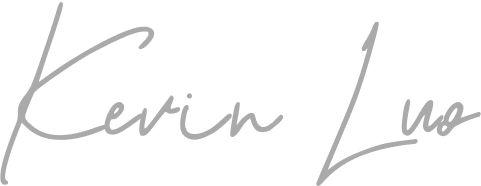
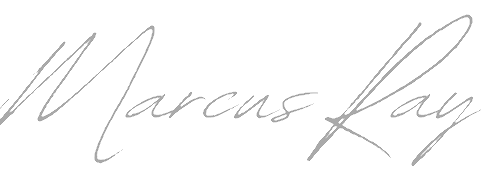
add copy
- apply minor style updates

diff --git a/src/constants/data.js b/src/constants/data.js
@@ -1,81 +1,85 @@
-import images from './images';
+import images from "./images";
 
 const wines = [
   {
-    title: 'Chapel Hill Shiraz',
-    price: '$56',
-    tags: 'AU | Bottle',
+    title: "Chapel Hill Shiraz",
+    price: "$56",
+    tags: "AU | Bottle",
   },
   {
-    title: 'Catena Malbee',
-    price: '$59',
-    tags: 'AU | Bottle',
+    title: "Catena Malbee",
+    price: "$59",
+    tags: "AU | Bottle",
   },
   {
-    title: 'La Vieillw Rose',
-    price: '$44',
-    tags: 'FR | 750 ml',
+    title: "La Vieillw Rose",
+    price: "$44",
+    tags: "FR | 750 ml",
   },
   {
-    title: 'Rhino Pale Ale',
-    price: '$31',
-    tags: 'CA | 750 ml',
+    title: "Rhino Pale Ale",
+    price: "$31",
+    tags: "CA | 750 ml",
   },
   {
-    title: 'Irish Guinness',
-    price: '$26',
-    tags: 'IE | 750 ml',
+    title: "Irish Guinness",
+    price: "$26",
+    tags: "IE | 750 ml",
   },
 ];
 
 const cocktails = [
   {
-    title: 'Aperol Sprtiz',
-    price: '$20',
-    tags: 'Aperol | Villa Marchesi prosecco | soda | 30 ml',
+    title: "Aperol Sprtiz",
+    price: "$20",
+    tags: "Aperol | Villa Marchesi prosecco | soda | 30 ml",
   },
   {
     title: "Dark 'N' Stormy",
-    price: '$16',
-    tags: 'Dark rum | Ginger beer | Slice of lime',
+    price: "$16",
+    tags: "Dark rum | Ginger beer | Slice of lime",
   },
   {
-    title: 'Daiquiri',
-    price: '$10',
-    tags: 'Rum | Citrus juice | Sugar',
+    title: "Daiquiri",
+    price: "$10",
+    tags: "Rum | Citrus juice | Sugar",
   },
   {
-    title: 'Old Fashioned',
-    price: '$31',
-    tags: 'Bourbon | Brown sugar | Angostura Bitters',
+    title: "Old Fashioned",
+    price: "$31",
+    tags: "Bourbon | Brown sugar | Angostura Bitters",
   },
   {
-    title: 'Negroni',
-    price: '$26',
-    tags: 'Gin | Sweet Vermouth | Campari | Orange garnish',
+    title: "Negroni",
+    price: "$26",
+    tags: "Gin | Sweet Vermouth | Campari | Orange garnish",
   },
 ];
 
 const awards = [
   {
     imgUrl: images.award02,
-    title: 'Bib Gourmond',
-    subtitle: 'Lorem ipsum dolor sit amet, consectetur.',
+    title: "Bib Gourmond",
+    subtitle:
+      "Start your evening here at the elegant bar where a perfectly chilled shrimp cocktail makes for a nice companion.",
   },
   {
     imgUrl: images.award01,
-    title: 'Rising Star',
-    subtitle: 'Lorem ipsum dolor sit amet, consectetur.',
+    title: "Rising Star",
+    subtitle:
+      "Chef Marcus Ray's menu is a treasure trove of French dishes dolled up with a contemporary flair.",
   },
   {
     imgUrl: images.award05,
-    title: 'AA Hospitality',
-    subtitle: 'Lorem ipsum dolor sit amet, consectetur.',
+    title: "AA Hospitality",
+    subtitle:
+      "Guests come here for the views and stay for the traditional French cuisine.",
   },
   {
     imgUrl: images.award03,
-    title: 'Outstanding Chef',
-    subtitle: 'Lorem ipsum dolor sit amet, consectetur.',
+    title: "Outstanding Chef",
+    subtitle:
+      "Chef Marcus Ray once worked on a farm, and his menu is a love letter to the region's seasons and its local suppliers.",
   },
 ];
 

diff --git a/src/container/About/About.jsx b/src/container/About/About.jsx
@@ -6,7 +6,7 @@ import "./About.css";
 const About = () => (
   <div className="app__about app__bg flex__center section__padding" id="about">
     <div className="app__about-overlay flex__center">
-      <img src={images.G} alt="g letter" />
+      <img src={images.C} alt="c letter" />
     </div>
     <div className="app__about-content flex__center">
       {/* Left side */}
@@ -14,9 +14,9 @@ const About = () => (
         <h1 className="headtext__cormorant">About Us</h1>
         <img src={images.spoon} alt="about_spoon" className="spoon__img" />
         <p className="p__opensans">
-          Lorem ipsum, dolor sit amet consectetur adipisicing elit. Unde alias
-          debitis magni veniam, provident recusandae enim iusto dicta eius
-          cumque.
+          Located in the heart of Delaware’s famed Rehoboth Beach, Chateau Chai
+          is a fresh take on neighborhood fine dining, complete with an indoor
+          bar, beer and wine, and an expansive outdoor garden patio.
         </p>
         <button type="button" className="custom__button">
           Know More
@@ -33,9 +33,11 @@ const About = () => (
         <h1 className="headtext__cormorant">Our History</h1>
         <img src={images.spoon} alt="about_spoon" className="spoon__img" />
         <p className="p__opensans">
-          Lorem ipsum, dolor sit amet consectetur adipisicing elit. Unde alias
-          debitis magni veniam, provident recusandae enim iusto dicta eius
-          cumque.
+          Marcus Ray’s Chateau Chai began in 2012 with a goal of serving bold,
+          global flavors to our local community and vistors alike. Since then,
+          our desire to treat guests like family has remained the same, but our
+          seasonal flavors, cocktails, wine and locally-crafted beer are
+          ever-changing.
         </p>
         <button type="button" className="custom__button">
           Know More

diff --git a/src/container/Footer/Footer.jsx b/src/container/Footer/Footer.jsx
@@ -15,15 +15,15 @@ const Footer = () => (
     <div className="app__footer-links">
       <div className="app__footer-links_contact">
         <h1 className="app__footer-headtext">Contact Us</h1>
-        <p className="p__opensans">123 Mulberry Ln, West Hanover, CT 12031</p>
-        <p className="p__opensans">+1 234-567-8901</p>
-        <p className="p__opensans">+1 234-555-8901</p>
+        <p className="p__opensans">59 Culinary Dr, Rehoboth Beach, DE 19971</p>
+        <p className="p__opensans">+1 302-567-8901</p>
+        <p className="p__opensans">+1 302-567-8907</p>
       </div>
       <div className="app__footer-links_logo">
         <img src={images.chateauChai} alt="footer_logo" />
         <p className="p__opensans">
           "The best way to find yourself is to lose yourself in the service of
-          others."
+          others." – Mahatma Gandhi
         </p>
         <img src={images.spoon} alt="spoon" className="spoon__img" />
         <div className="app__footer-links_icons">

diff --git a/src/container/Chef/Chef.jsx b/src/container/Chef/Chef.jsx
@@ -17,17 +17,18 @@ const Chef = () => (
         <div className="app__chef-content_quote">
           <img src={images.quote} alt="quote" />
           <p className="p__opensans">
-            Lorem ipsum dolor, sit amet consectetur adipisicing elit.
+            With our team taking an unrestricted approach when it comes to all
+            things food and drink,
           </p>
         </div>
         <p className="p__opensans">
-          Iste fugiat perspiciatis dolore excepturi aperiam veniam, esse quam
-          dolor blanditiis nisi qui beatae iure ullam quos.
+          expect to be wowed with dishes and drinks that are vibrant and bold,
+          yet familiar and comfortable.
         </p>
       </div>
 
       <div className="app__chef-sign">
-        <p>Kevin Luo</p>
+        <p>Marcus Ray</p>
         <p className="p__opensans">Chef & Founder</p>
         <img src={images.sign} alt="sign" />
       </div>

diff --git a/src/container/Gallery/Gallery.jsx b/src/container/Gallery/Gallery.jsx
@@ -36,8 +36,11 @@ const Gallery = () => {
         <SubHeading title="Instagram" />
         <h1 className="headtext__cormorant">Photo Gallery</h1>
         <p className="p__opensans">
-          Lorem ipsum dolor, sit amet consectetur adipisicing elit. Facere, ad
-          delectus laborum ex maiores maxime.
+          Chateau Chai is built on a dream of presenting classic flavours in a
+          fresh and exciting way. Our beautiful, contemporary interior and
+          diverse menus will set your senses alight. You may think you know fine
+          dining but we want to show you that the surface is yet to be
+          scratched, and there is so much more to offer.
         </p>
         <button className="custom__button" type="button">
           View More

diff --git a/src/components/Navbar/Navbar.css b/src/components/Navbar/Navbar.css
@@ -120,6 +120,26 @@
   right: 20px;
 }
 
+/* Experimental styles for sticky navbar
+
+  .app__navigation {
+    display:flex;
+    width: 100%;
+    justify-content: space-between;
+    align-items: center;
+    position: fixed;
+    padding: 1rem 2rem;
+    height: 75px;
+    background-color: transparent;
+    z-index: 50;
+  }
+
+  .backdrop-blur {
+    --tw-backdrop-blur: blur(8px);
+    backdrop-filter: var(--tw-backdrop-blur) var(--tw-backdrop-brightness) var(--tw-backdrop-contrast) var(--tw-backdrop-grayscale) var(--tw-backdrop-hue-rotate) var(--tw-backdrop-invert) var(--tw-backdrop-opacity) var(--tw-backdrop-saturate) var(--tw-backdrop-sepia);
+  }
+*/
+
 /** Media Queries */
 @media screen and (max-width: 2000px) {
   .app__navbar-logo img {

diff --git a/src/container/Header/Header.jsx b/src/container/Header/Header.jsx
@@ -11,8 +11,9 @@ const Header = () => (
       <SubHeading title="Chase the new flavor" />
       <h1 className="app__header-h1">The Key to Fine Dining</h1>
       <p className="app__header-p p__opensans">
-        Lorem ipsum dolor sit amet consectetur adipisicing elit. Obcaecati rem
-        quaerat at sit amet. Laboriosam aliquam inventore corrupti alias nisi?
+        Located in the heart of Delaware’s famed Rehoboth Beach, Chateau Chai is
+        a fresh take on neighborhood fine dining, complete with an indoor bar,
+        beer and wine, and an expansive outdoor garden patio.
       </p>
       <button type="button" className="custom__button">
         Explore Menu

diff --git a/src/container/Findus/FindUs.jsx b/src/container/Findus/FindUs.jsx
@@ -10,7 +10,7 @@ const FindUs = () => (
       <SubHeading title="Contact" />
       <h1 className="headtext__cormorant">Find Us</h1>
       <div className="app__wrapper-content">
-        <p className="p__opensans">123 Mulberry Ln, West Hanover, CT 12031</p>
+        <p className="p__opensans">59 Culinary Dr, Rehoboth Beach, DE 19971</p>
         <p className="p__cormorant">Opening Hours</p>
         <p className="p__opensans">Mon - Fri: 11:00 am - 11:00 pm</p>
         <p className="p__opensans">Sat - Sun: 11:00 am - 01:00 am</p>

diff --git a/src/container/Laurels/Laurels.css b/src/container/Laurels/Laurels.css
@@ -3,8 +3,6 @@
   justify-content: flex-start;
   align-items: center;
   flex-wrap: wrap;
-
-  margin-top: 3rem;
 }
 
 .app__laurels_awards-card {
@@ -29,6 +27,7 @@
   margin-left: 1rem;
 }
 
+/* Media Queries */
 /* Apply above 1900px */
 @media screen and (min-width: 1900px) {
   .app__laurels_awards-card {

diff --git a/src/App.css b/src/App.css
@@ -83,7 +83,7 @@
   color: var(--color-white);
   font-weight: 400;
   letter-spacing: 0.04em;
-  text-transform: capitalize;
+  /* text-transform: capitalize; */
   line-height: 28px;
   font-size: 16px;
 }

diff --git a/src/container/Laurels/AwardCard.css b/src/container/Laurels/AwardCard.css
@@ -1,3 +1,7 @@
 .p__cormorant:first-child {
   color: #dcca87;
 }
+
+.app__laurels_awards-card_content p:last-child {
+  text-transform: none;
+}
